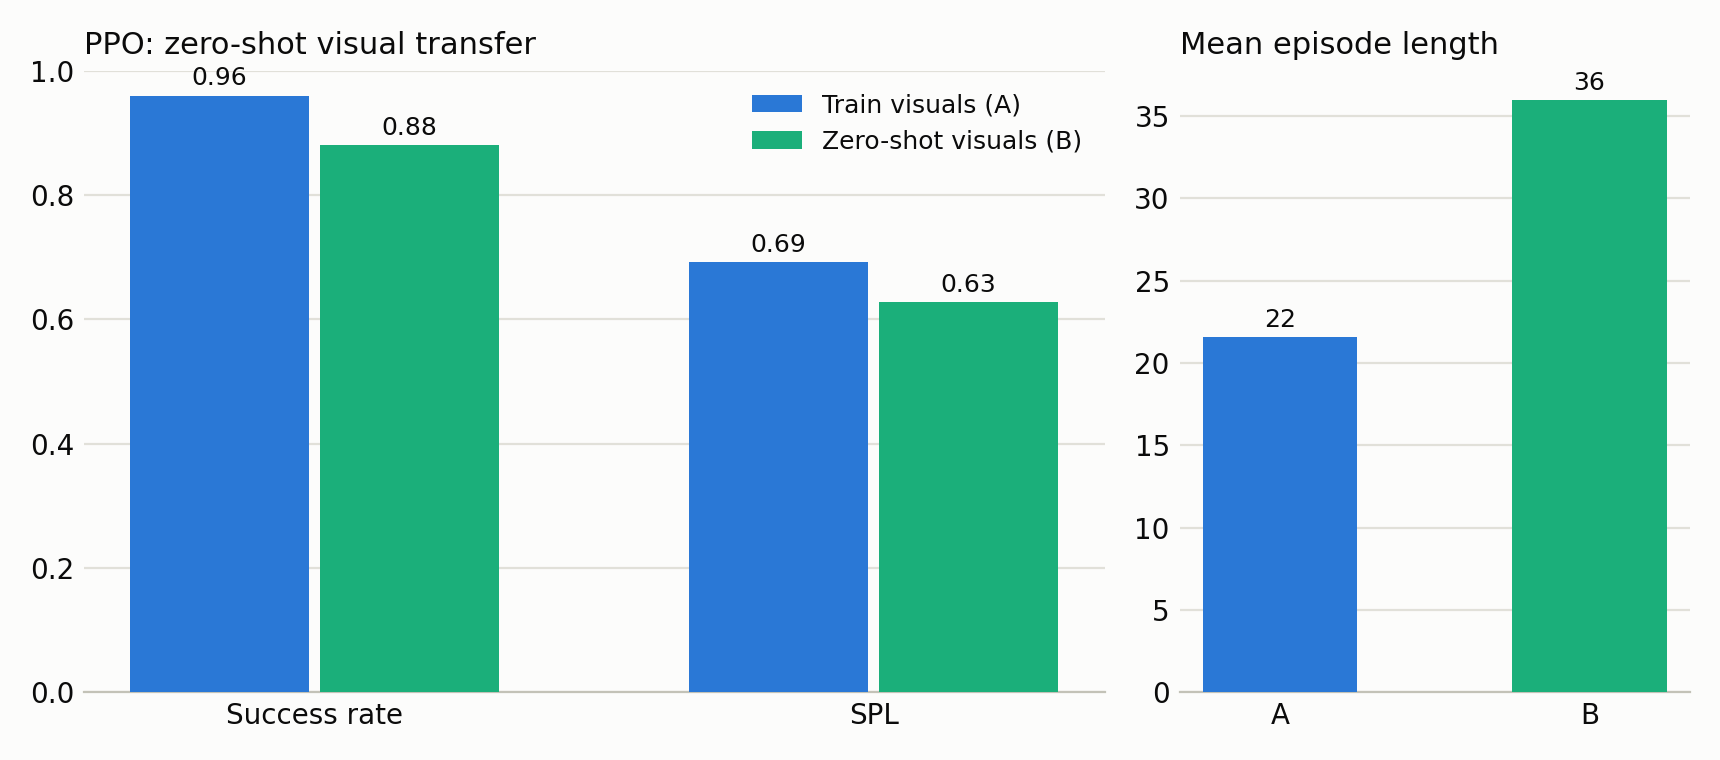
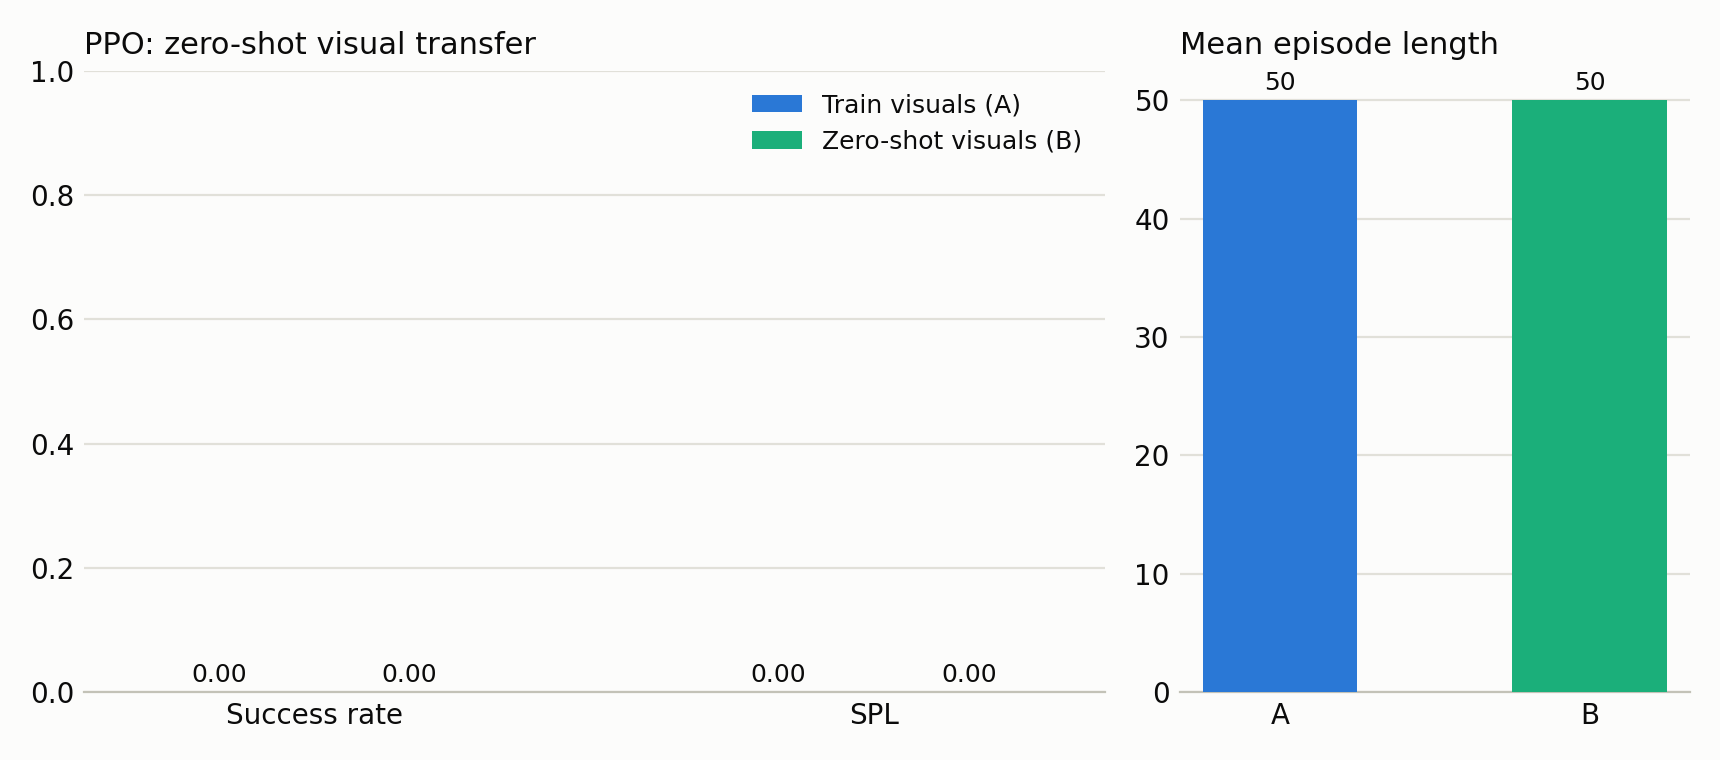
UPDATE

diff --git a/results/tables/dreamerv3_transfer_summary.md b/results/tables/dreamerv3_transfer_summary.md
@@ -2,10 +2,10 @@
 
 | variant               |   success_rate |   spl |   mean_episode_length |   mean_total_reward |   episodes |
 |:----------------------|---------------:|------:|----------------------:|--------------------:|-----------:|
-| A (train visuals)     |          0.960 | 0.640 |                29.680 |              11.039 |         25 |
-| B (zero-shot visuals) |          1.000 | 0.641 |                20.600 |              11.546 |         25 |
+| A (train visuals)     |          0.000 | 0.000 |                50.000 |              -0.081 |          3 |
+| B (zero-shot visuals) |          0.000 | 0.000 |                50.000 |              -0.742 |          3 |
 
-- **Success-rate drop (A - B): -0.040 absolute, -4.2% relative**
-- **SPL drop (A - B): -0.001 absolute**
+- **Success-rate drop (A - B): 0.000 absolute**
+- **SPL drop (A - B): 0.000 absolute**
 
 _Same frozen policy, same episode seeds (paired starts), no fine-tuning._

diff --git a/results/tables/tdmpc2_transfer_summary.md b/results/tables/tdmpc2_transfer_summary.md
@@ -2,10 +2,10 @@
 
 | variant               |   success_rate |   spl |   mean_episode_length |   mean_total_reward |   episodes |
 |:----------------------|---------------:|------:|----------------------:|--------------------:|-----------:|
-| A (train visuals)     |          1.000 | 0.730 |                13.920 |              11.590 |         25 |
-| B (zero-shot visuals) |          0.760 | 0.519 |                82.640 |               7.989 |         25 |
+| A (train visuals)     |          0.000 | 0.000 |                50.000 |              -0.603 |          3 |
+| B (zero-shot visuals) |          0.000 | 0.000 |                50.000 |              -0.775 |          3 |
 
-- **Success-rate drop (A - B): 0.240 absolute, 24.0% relative**
-- **SPL drop (A - B): 0.211 absolute**
+- **Success-rate drop (A - B): 0.000 absolute**
+- **SPL drop (A - B): 0.000 absolute**
 
 _Same frozen policy, same episode seeds (paired starts), no fine-tuning._

diff --git a/results/tables/ppo_transfer_summary.md b/results/tables/ppo_transfer_summary.md
@@ -2,10 +2,10 @@
 
 | variant               |   success_rate |   spl |   mean_episode_length |   mean_total_reward |   episodes |
 |:----------------------|---------------:|------:|----------------------:|--------------------:|-----------:|
-| A (train visuals)     |          0.960 | 0.692 |                21.560 |              11.057 |         25 |
-| B (zero-shot visuals) |          0.880 | 0.628 |                35.960 |              10.037 |         25 |
+| A (train visuals)     |          0.000 | 0.000 |                50.000 |              -0.500 |          3 |
+| B (zero-shot visuals) |          0.000 | 0.000 |                50.000 |              -0.500 |          3 |
 
-- **Success-rate drop (A - B): 0.080 absolute, 8.3% relative**
-- **SPL drop (A - B): 0.064 absolute**
+- **Success-rate drop (A - B): 0.000 absolute**
+- **SPL drop (A - B): 0.000 absolute**
 
 _Same frozen policy, same episode seeds (paired starts), no fine-tuning._
